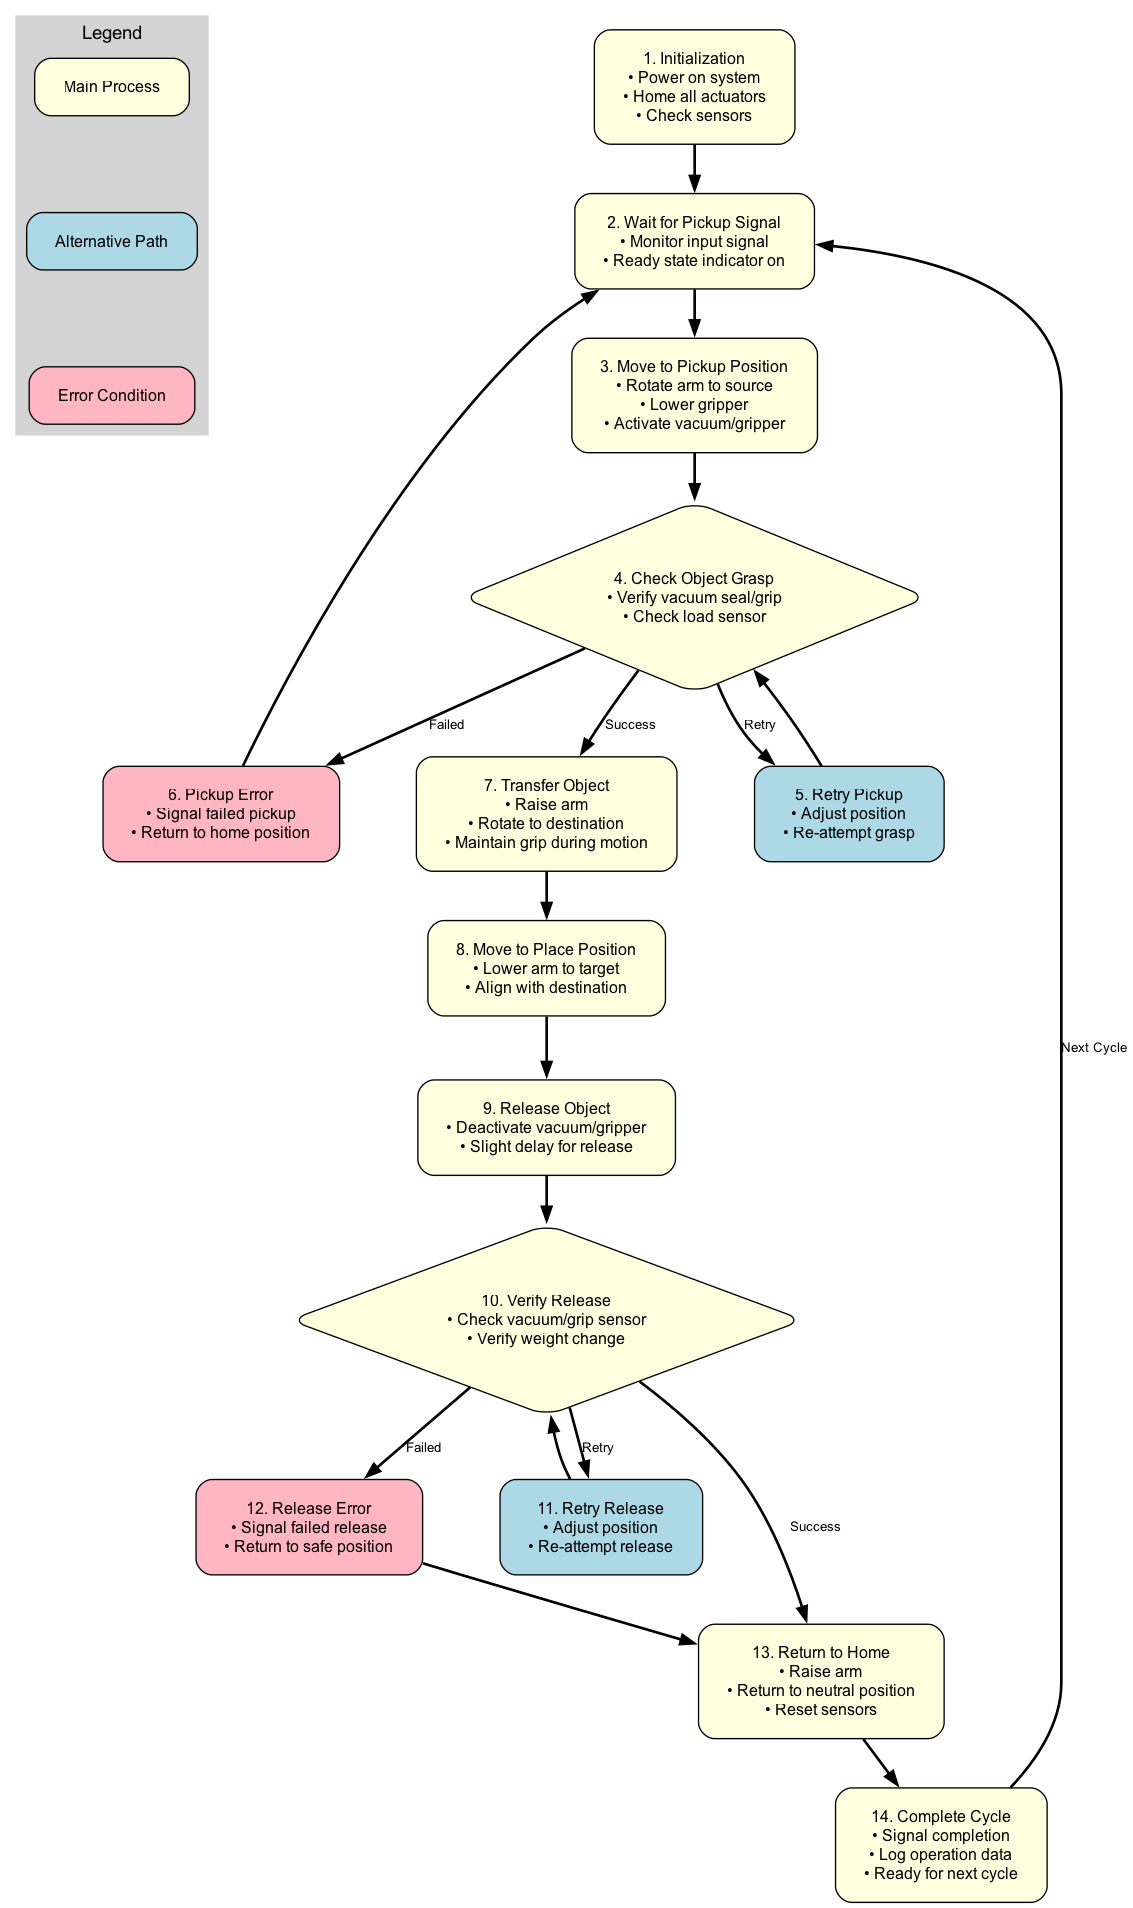
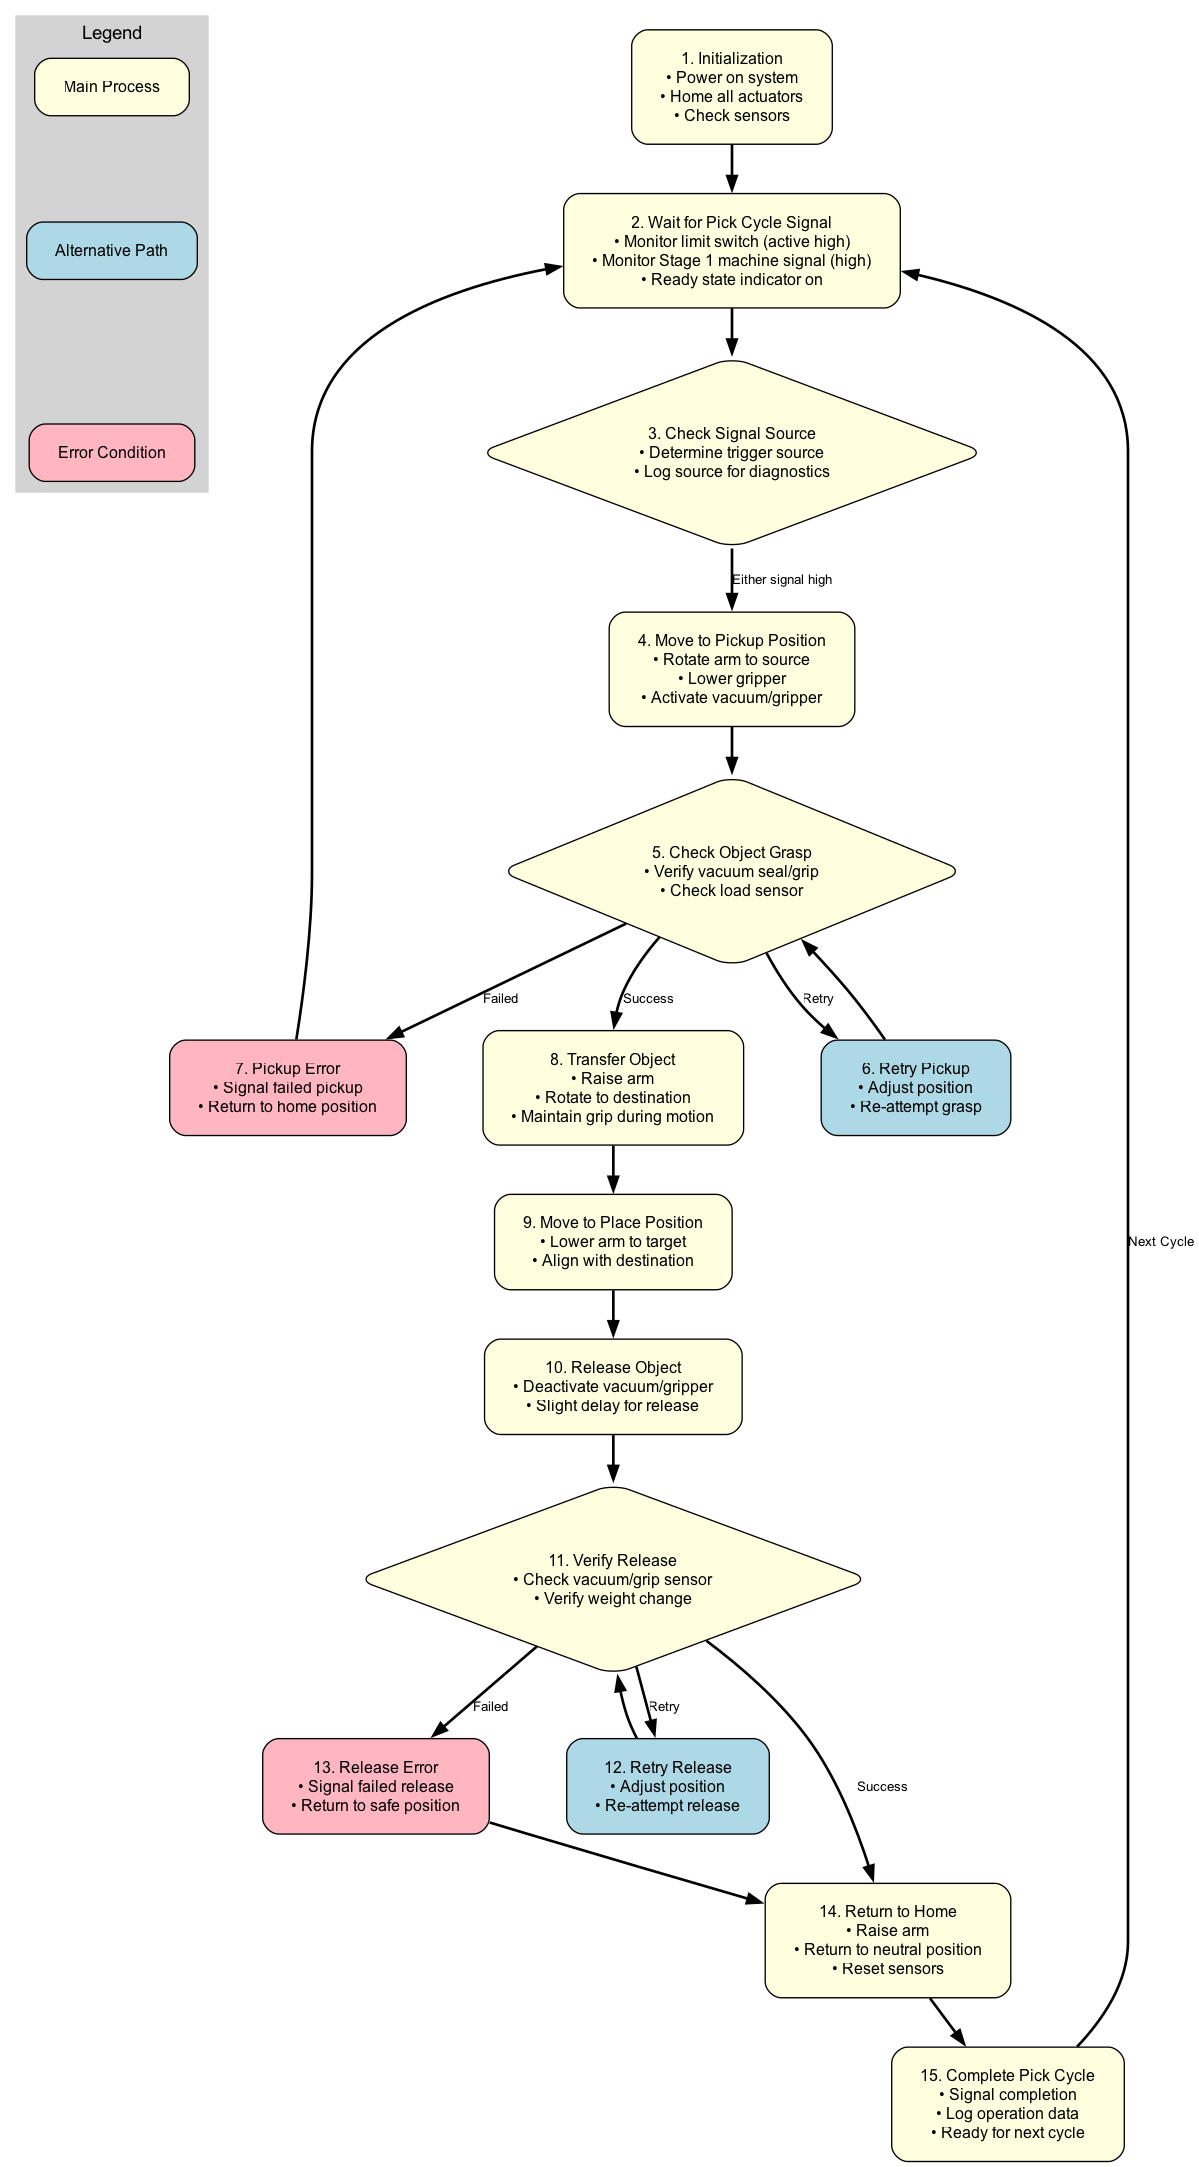
Updated flowchart to include pick cycle trigger conditions

diff --git a/README.md b/README.md
@@ -19,15 +19,20 @@ ESP32-based control system for a robotic transfer arm that picks up objects from
 - `flowchart.dot`: DOT file for the process flowchart
 - `transfer_arm_flowchart.png`: Visual representation of the control flow
 
-## Operation Flow
+## Operation Flow - Pick Cycle
 The system operates following these main steps:
 1. Initialization and homing
-2. Waiting for pickup signal
+2. Waiting for pick cycle trigger (either from a limit switch or Stage 1 machine)
 3. Moving to pickup position
 4. Gripping the object
 5. Transferring to target position
 6. Releasing the object
 7. Returning to home position
+
+### Pick Cycle Trigger
+The pick cycle can be initiated by either:
+- A limit switch (active high) being pressed
+- A high signal received from the "Stage 1" machine
 
 See the flowchart for a detailed visual representation of the process.
 
